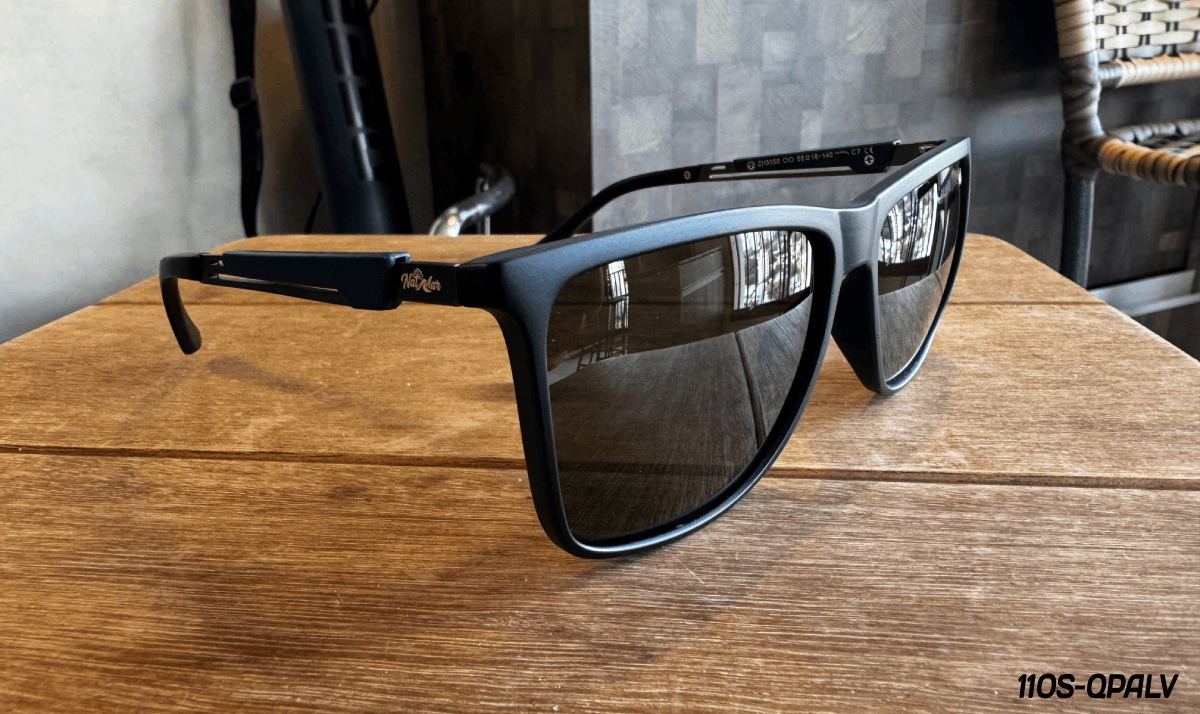
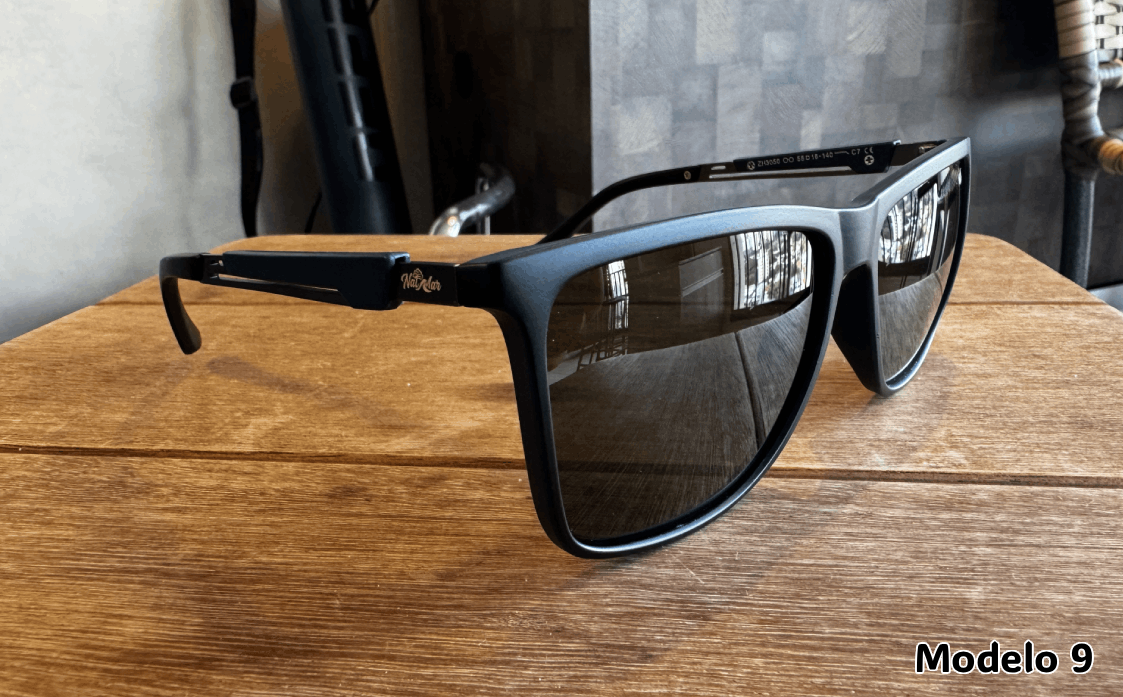
Sincroniza óculos com a loja: SKUs, fotos certas e Modelo 19
- SKUs do Oculos Solar passam a ser os da loja (631000301...), conforme o
  CSV exportado em 15/10/2026. Os do Clip Flip já batiam.
- Inclui o Modelo 19 (Retangular, 631000819), que estava só na loja.
- Modelo 4 usava a foto do Modelo 14; passa a usar a foto própria.
- Modelo 1 usava uma foto igual à do Modelo 3; passa a usar a foto correta
  da loja (1OS-QAPLR-2.png). O arquivo antigo 1OS-QAPLR.png é mantido porque
  o e-mail de outubro o referencia.
- Demais fotos do Oculos Solar (exceto Modelo 18) trocadas pelas da loja,
  que trazem "Modelo N" estampado. A do Modelo 18 foi mantida porque a foto
  da loja está estampada "Modelo 19" por engano.
- Modelo 20 (esgotado) não entra.

diff --git a/index.html b/index.html
@@ -371,24 +371,25 @@
 <script>
     // Todos os dados processados do ficheiro CSV
     const produtos = [
-        {"title": "Oculos Solar", "model": "Quadrado", "modelo": "Modelo 1", "price": "89,00", "color": "Haste em Bambu; Cor da Armação: Preta; Cor da Lente: Roxa", "sku": "63100101", "img": "images/1OS-QAPLR.png", "tag": "Destaque"}, 
-        {"title": "Oculos Solar", "model": "Quadrado", "modelo": "Modelo 2", "price": "89,00", "color": "Haste em Bambu; Cor da Armação: Preto por fora e Azul por dentro; Cor da Lente: Preta", "sku": "63100110", "img": "images/10OS-QPALP.png", "tag": "Novo"}, 
-        {"title": "Oculos Solar", "model": "Quadrado", "modelo": "Modelo 3", "price": "89,00", "color": "Haste em Bambu; Cor da Armação:Plástico Preto; Cor da Lente: Roxa Degradê", "sku": "63100112", "img": "images/18OS-QAPLRD.png", "tag": ""}, 
-        {"title": "Oculos Solar", "model": "Quadrado", "modelo": "Modelo 4", "price": "89,00", "color": "Haste em Plástico Translúcido; Cor da Armação: Fumê Claro; Cor da Lente: Azul", "sku": "63100115", "img": "images/15OS-QFMM-LMD.png", "tag": ""}, 
-        {"title": "Oculos Solar", "model": "Quadrado", "modelo": "Modelo 5", "price": "99,00", "color": "Dupla Lente Com Imã - Cor: Preta; Cor da Lente: Preta e Translúcida", "sku": "63100106", "img": "images/6OS-QAPLP-IM.png", "tag": "Magnético"}, 
-        {"title": "Oculos Solar", "model": "Quadrado", "modelo": "Modelo 6", "price": "89,00", "color": "Armação Superior Reta - Cor: Marrom; Cor da Lente: Marrom", "sku": "63100103", "img": "images/3OS-QAMLM.png", "tag": "Destaque"}, 
-        {"title": "Oculos Solar", "model": "Quadrado", "modelo": "Modelo 7", "price": "89,00", "color": "Cor da Armação: Preta; Cor da Lente: Preta", "sku": "63100102", "img": "images/2OS-QAPLP.png", "tag": ""}, 
-        {"title": "Oculos Solar", "model": "Quadrado", "modelo": "Modelo 8", "price": "89,00", "color": "Cor da Armação: Preta e Vermelha; Cor da Lente: Cinza", "sku": "63100105", "img": "images/5OS-QPVLC.png", "tag": ""}, 
-        {"title": "Oculos Solar", "model": "Quadrado", "modelo": "Modelo 13", "price": "89,00", "color": "Cor da Armação: Preto por Fora e Azul por Dentro; Cor da Lente: Verde", "sku": "63100109", "img": "images/9OS-QPALV.png", "tag": ""}, 
-        {"title": "Oculos Solar", "model": "Quadrado", "modelo": "Modelo 10", "price": "89,00", "color": "Cor da Armação: Preta e Vermelha; Cor da Lente: Preta", "sku": "63100104", "img": "images/4OS-QPVLP.png", "tag": ""}, 
-        {"title": "Oculos Solar", "model": "Quadrado", "modelo": "Modelo 11", "price": "89,00", "color": "Cor da Armação: Azul; Cor da Lente: Azul Degradê", "sku": "63100107", "img": "images/7OS-QAZLAD.png", "tag": "Novo"}, 
-        {"title": "Oculos Solar", "model": "Quadrado", "modelo": "Modelo 12", "price": "89,00", "color": "Cor da Armação Curvada: Marrom; Cor da Lente: Marrom", "sku": "63100108", "img": "images/8OS-QAMLM-2.png", "tag": ""}, 
-        {"title": "Oculos Solar", "model": "Quadrado", "modelo": "Modelo 9", "price": "89,00", "color": "Armação Metálica com Plástico Cor: Preto por Fora e Azul por Dentro; Cor da Lente: Verde", "sku": "63100116", "img": "images/11OS-QPALV-2.png", "tag": ""}, 
-        {"title": "Oculos Solar", "model": "Quadrado Feminino", "modelo": "Modelo 14", "price": "89,00", "color": "Apoio em silicone; Armação Feminina Cor: Metálica Marrom; Cor da Lente: Marrom Degradê", "sku": "63100111", "img": "images/15OS-QFMM-LMD.png", "tag": ""}, 
-        {"title": "Oculos Solar", "model": "Quadrado Aviador", "modelo": "Modelo 15", "price": "89,00", "color": "Apoio em Silicone com Armação: Preta; Cor da Lente: Verde", "sku": "63100117", "img": "images/13OS-AAPLV.png", "tag": ""}, 
-        {"title": "Oculos Solar", "model": "Quadrado Aviador", "modelo": "Modelo 16", "price": "89,00", "color": "Apoio em Silicone com Armação: Preta e Cinza; Cor da Lente: Verde", "sku": "63100118", "img": "images/19OS-APCLV.png", "tag": ""}, 
-        {"title": "Oculos Solar", "model": "Oval", "modelo": "Modelo 17", "price": "89,00", "color": "Cor da Armação: Preta; Cor da Lente: Amarela Espelhada", "sku": "63100119", "img": "images/12OS-OAPLYE.png", "tag": ""}, 
-        {"title": "Oculos Solar", "model": "Oval", "modelo": "Modelo 18", "price": "89,00", "color": "Cor da Armação em Plástico: Preto; Cor da Lente: Preta", "sku": "63100114", "img": "images/17OS-OAPLP.png", "tag": ""}, 
+        {"title": "Oculos Solar", "model": "Quadrado", "modelo": "Modelo 1", "price": "89,00", "color": "Haste em Bambu; Cor da Armação: Preta; Cor da Lente: Roxa", "sku": "631000301", "img": "images/1OS-QAPLR-2.png", "tag": "Destaque"}, 
+        {"title": "Oculos Solar", "model": "Quadrado", "modelo": "Modelo 2", "price": "89,00", "color": "Haste em Bambu; Cor da Armação: Preto por fora e Azul por dentro; Cor da Lente: Preta", "sku": "631000302", "img": "images/10OS-QPALP.png", "tag": "Novo"}, 
+        {"title": "Oculos Solar", "model": "Quadrado", "modelo": "Modelo 3", "price": "89,00", "color": "Haste em Bambu; Cor da Armação:Plástico Preto; Cor da Lente: Roxa Degradê", "sku": "631000303", "img": "images/18OS-QAPLRD.png", "tag": ""}, 
+        {"title": "Oculos Solar", "model": "Quadrado", "modelo": "Modelo 4", "price": "89,00", "color": "Haste em Plástico Translúcido; Cor da Armação: Fumê Claro; Cor da Lente: Azul", "sku": "631000304", "img": "images/14OS-QMFLA.png", "tag": ""}, 
+        {"title": "Oculos Solar", "model": "Quadrado", "modelo": "Modelo 5", "price": "99,00", "color": "Dupla Lente Com Imã - Cor: Preta; Cor da Lente: Preta e Translúcida", "sku": "631000305", "img": "images/6OS-QAPLP-IM.png", "tag": "Magnético"}, 
+        {"title": "Oculos Solar", "model": "Quadrado", "modelo": "Modelo 6", "price": "89,00", "color": "Armação Superior Reta - Cor: Marrom; Cor da Lente: Marrom", "sku": "631000306", "img": "images/3OS-QAMLM.png", "tag": "Destaque"}, 
+        {"title": "Oculos Solar", "model": "Quadrado", "modelo": "Modelo 7", "price": "89,00", "color": "Cor da Armação: Preta; Cor da Lente: Preta", "sku": "631000307", "img": "images/2OS-QAPLP.png", "tag": ""}, 
+        {"title": "Oculos Solar", "model": "Quadrado", "modelo": "Modelo 8", "price": "89,00", "color": "Cor da Armação: Preta e Vermelha; Cor da Lente: Cinza", "sku": "631000308", "img": "images/5OS-QPVLC.png", "tag": ""}, 
+        {"title": "Oculos Solar", "model": "Quadrado", "modelo": "Modelo 13", "price": "89,00", "color": "Cor da Armação: Preto por Fora e Azul por Dentro; Cor da Lente: Verde", "sku": "631000313", "img": "images/9OS-QPALV.png", "tag": ""}, 
+        {"title": "Oculos Solar", "model": "Quadrado", "modelo": "Modelo 10", "price": "89,00", "color": "Cor da Armação: Preta e Vermelha; Cor da Lente: Preta", "sku": "631000310", "img": "images/4OS-QPVLP.png", "tag": ""}, 
+        {"title": "Oculos Solar", "model": "Quadrado", "modelo": "Modelo 11", "price": "89,00", "color": "Cor da Armação: Azul; Cor da Lente: Azul Degradê", "sku": "631000311", "img": "images/7OS-QAZLAD.png", "tag": "Novo"}, 
+        {"title": "Oculos Solar", "model": "Quadrado", "modelo": "Modelo 12", "price": "89,00", "color": "Cor da Armação Curvada: Marrom; Cor da Lente: Marrom", "sku": "631000312", "img": "images/8OS-QAMLM-2.png", "tag": ""}, 
+        {"title": "Oculos Solar", "model": "Quadrado", "modelo": "Modelo 9", "price": "89,00", "color": "Armação Metálica com Plástico Cor: Preto por Fora e Azul por Dentro; Cor da Lente: Verde", "sku": "631000309", "img": "images/11OS-QPALV-2.png", "tag": ""}, 
+        {"title": "Oculos Solar", "model": "Quadrado Feminino", "modelo": "Modelo 14", "price": "89,00", "color": "Apoio em silicone; Armação Feminina Cor: Metálica Marrom; Cor da Lente: Marrom Degradê", "sku": "631000314", "img": "images/15OS-QFMM-LMD.png", "tag": ""}, 
+        {"title": "Oculos Solar", "model": "Quadrado Aviador", "modelo": "Modelo 15", "price": "89,00", "color": "Apoio em Silicone com Armação: Preta; Cor da Lente: Verde", "sku": "631000515", "img": "images/13OS-AAPLV.png", "tag": ""}, 
+        {"title": "Oculos Solar", "model": "Quadrado Aviador", "modelo": "Modelo 16", "price": "89,00", "color": "Apoio em Silicone com Armação: Preta e Cinza; Cor da Lente: Verde", "sku": "631000516", "img": "images/19OS-APCLV.png", "tag": ""}, 
+        {"title": "Oculos Solar", "model": "Oval", "modelo": "Modelo 17", "price": "89,00", "color": "Cor da Armação: Preta; Cor da Lente: Amarela Espelhada", "sku": "631000717", "img": "images/12OS-OAPLYE.png", "tag": ""}, 
+        {"title": "Oculos Solar", "model": "Oval", "modelo": "Modelo 18", "price": "89,00", "color": "Cor da Armação em Plástico: Preto; Cor da Lente: Preta", "sku": "631000718", "img": "images/17OS-OAPLP.png", "tag": ""}, 
+        {"title": "Oculos Solar", "model": "Retangular", "modelo": "Modelo 19", "price": "89,00", "color": "Apoio em Silicone com Armação: Metálica Preta; Cor da Lente: Preta", "sku": "631000819", "img": "images/16OS-RTMP-LP.png", "tag": ""}, 
         {"title": "Clip Flip", "model": "Aviador", "modelo": "Modelo Aviador", "price": "34,99", "color": "Azul Espelhada", "sku": "63110051002", "img": "images/FLIP77C9.png", "tag": ""}, 
         {"title": "Clip Flip", "model": "Aviador", "modelo": "Modelo Aviador", "price": "34,99", "color": "Marrom", "sku": "63110051003", "img": "images/FLIP77C2.png", "tag": ""}, 
         {"title": "Clip Flip", "model": "Aviador", "modelo": "Modelo Aviador", "price": "34,99", "color": "Marrom Degrade", "sku": "63110051004", "img": "images/FLIP77C5.png", "tag": ""}, 
